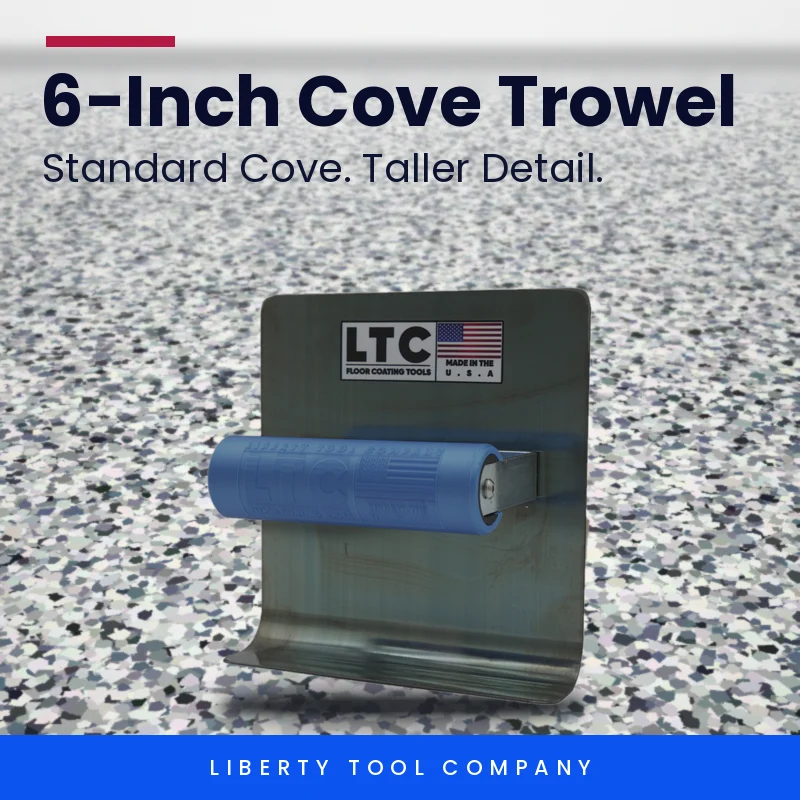
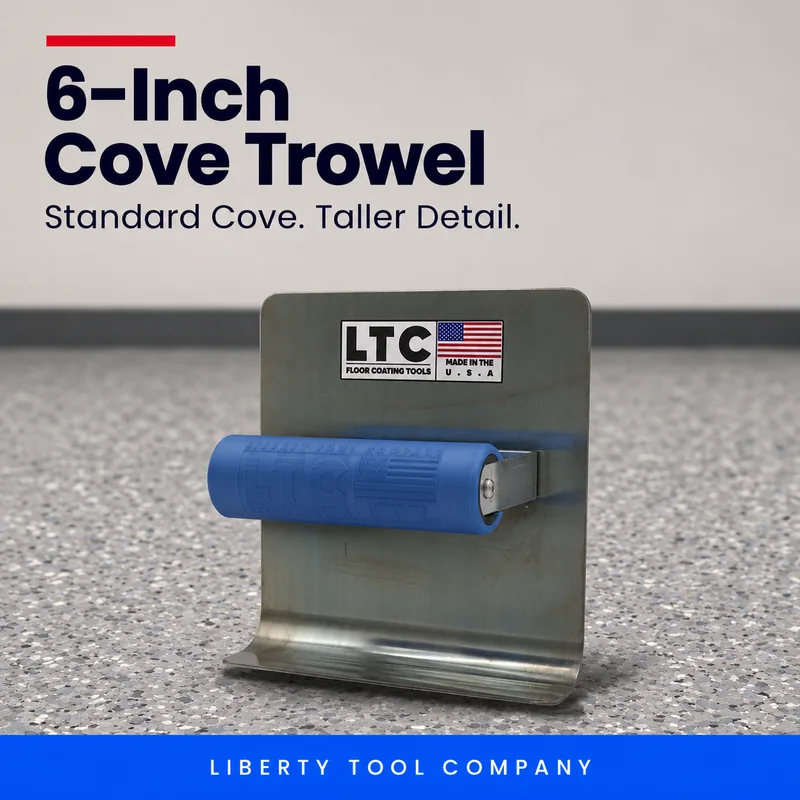
New product cards: trowels, Patch Hawk, Broadcast Strap
- New catalog cards for the 4" and 6" Standard Cove (with and without 45° taper), 2" Cant Cove (both), Patch Hawk and Broadcast Strap
- Same file names, ?v=3 on the website, partner portal and admin so browsers load the new ones
- 6" Snub and 8" Marginal keep their current cards

diff --git a/public/option-2/index.html b/public/option-2/index.html
@@ -1077,15 +1077,15 @@ var CARD = { lowboy: '/assets/card-lowboy.webp', c2: '/assets/card-c2.webp', c4:
 var CROP = { lowboy: '/assets/crop-lowboy.webp', c2: '/assets/crop-c2.webp', c4: '/assets/crop-c4.webp', c6: '/assets/crop-c6.webp', cove: '/assets/crop-cove.webp', ddd: '/assets/crop-ddd.webp', triple: '/assets/crop-triple.webp', four: '/assets/crop-four.webp' };
 var TOOLS = [
   { id: 'trowel', group: 'trowel', name: '6" Snub Flat Hanging Trowel', tag: 'LTC Trowels', sku: 'LTC-SNUB', price: 39.99, img: '/assets/card-snub.webp', alt: '/assets/sq-snub.webp', body: 'A 6 inch snub-nose flat trowel for hanging and finishing work.', points: ['6 inch flat steel blade', 'Snub nose', 'Soft blue grip', 'Made in the USA'], url: '6-snub-flat-hanging-trowel' },
-  { id: 'covetrowel', group: 'trowel', name: '4" Standard Cove Trowel', tag: 'LTC Trowels', sku: 'LTC-45CT', price: 28.99, img: '/assets/card-ct4.webp', alt: '/assets/sq-covet.webp', body: 'A 4 inch standard cove trowel for shaping cove where the floor meets the wall.', points: ['4 inch standard cove', 'Riveted steel handle', 'Blue grip with LTC branding', 'Made in the USA'], url: '4-standard-cove-trowel' },
-  { id: 'ct4t', group: 'trowel', name: '4" Standard Cove Trowel w/ 45° Taper', tag: 'LTC Trowels', sku: 'LTC-45CTW45', price: 31.99, img: '/assets/card-ct4t.webp', alt: '/assets/sq-ct4t.webp', body: 'A 4 inch standard cove trowel with a 45 degree taper.', points: ['4 inch standard cove', '45° taper', 'Made in the USA'], url: '4-standard-cove-trowel-w45' },
-  { id: 'ct6', group: 'trowel', name: '6" Standard Cove Trowel', tag: 'LTC Trowels', sku: 'LTC-65CT', price: 29.99, img: '/assets/card-ct6.webp', alt: '/assets/sq-ct6.webp', body: 'A 6 inch standard cove trowel for taller cove details.', points: ['6 inch standard cove', 'Made in the USA'], url: '6-standard-cove-trowel' },
-  { id: 'ct6t', group: 'trowel', name: '6" Standard Cove Trowel w/ 45° Taper', tag: 'LTC Trowels', sku: 'LTC-65CTW45', price: 32.99, img: '/assets/card-ct6t.webp', alt: '/assets/sq-ct6t.webp', body: 'A 6 inch standard cove trowel with a 45 degree taper.', points: ['6 inch standard cove', '45° taper', 'Made in the USA'], url: '6-standard-cove-trowel-w45' },
-  { id: 'cct', group: 'trowel', name: '2" Cant Cove Trowel', tag: 'LTC Trowels', sku: 'LTC-CCT', price: 34.99, img: '/assets/card-cct.webp?v=2', alt: '/assets/sq-cct.webp', body: 'A 2 inch cant cove trowel for shaping a straight angled cove.', points: ['2 inch cant cove', 'Made in the USA'], url: '2-cant-cove-trowel' },
-  { id: 'cct45', group: 'trowel', name: '2" Cant Cove Trowel w/ 45° Taper', tag: 'LTC Trowels', sku: 'LTC-CCTW45', price: 39.99, img: '/assets/card-cct45.webp?v=2', alt: '/assets/sq-cct45.webp', body: 'A 2 inch cant cove trowel with a 45 degree taper.', points: ['2 inch cant cove', '45° taper', 'Made in the USA'], url: '2-cant-cove-trowel-w45' },
+  { id: 'covetrowel', group: 'trowel', name: '4" Standard Cove Trowel', tag: 'LTC Trowels', sku: 'LTC-45CT', price: 28.99, img: '/assets/card-ct4.webp?v=3', alt: '/assets/sq-covet.webp', body: 'A 4 inch standard cove trowel for shaping cove where the floor meets the wall.', points: ['4 inch standard cove', 'Riveted steel handle', 'Blue grip with LTC branding', 'Made in the USA'], url: '4-standard-cove-trowel' },
+  { id: 'ct4t', group: 'trowel', name: '4" Standard Cove Trowel w/ 45° Taper', tag: 'LTC Trowels', sku: 'LTC-45CTW45', price: 31.99, img: '/assets/card-ct4t.webp?v=3', alt: '/assets/sq-ct4t.webp', body: 'A 4 inch standard cove trowel with a 45 degree taper.', points: ['4 inch standard cove', '45° taper', 'Made in the USA'], url: '4-standard-cove-trowel-w45' },
+  { id: 'ct6', group: 'trowel', name: '6" Standard Cove Trowel', tag: 'LTC Trowels', sku: 'LTC-65CT', price: 29.99, img: '/assets/card-ct6.webp?v=3', alt: '/assets/sq-ct6.webp', body: 'A 6 inch standard cove trowel for taller cove details.', points: ['6 inch standard cove', 'Made in the USA'], url: '6-standard-cove-trowel' },
+  { id: 'ct6t', group: 'trowel', name: '6" Standard Cove Trowel w/ 45° Taper', tag: 'LTC Trowels', sku: 'LTC-65CTW45', price: 32.99, img: '/assets/card-ct6t.webp?v=3', alt: '/assets/sq-ct6t.webp', body: 'A 6 inch standard cove trowel with a 45 degree taper.', points: ['6 inch standard cove', '45° taper', 'Made in the USA'], url: '6-standard-cove-trowel-w45' },
+  { id: 'cct', group: 'trowel', name: '2" Cant Cove Trowel', tag: 'LTC Trowels', sku: 'LTC-CCT', price: 34.99, img: '/assets/card-cct.webp?v=3', alt: '/assets/sq-cct.webp', body: 'A 2 inch cant cove trowel for shaping a straight angled cove.', points: ['2 inch cant cove', 'Made in the USA'], url: '2-cant-cove-trowel' },
+  { id: 'cct45', group: 'trowel', name: '2" Cant Cove Trowel w/ 45° Taper', tag: 'LTC Trowels', sku: 'LTC-CCTW45', price: 39.99, img: '/assets/card-cct45.webp?v=3', alt: '/assets/sq-cct45.webp', body: 'A 2 inch cant cove trowel with a 45 degree taper.', points: ['2 inch cant cove', '45° taper', 'Made in the USA'], url: '2-cant-cove-trowel-w45' },
   { id: 'marg', group: 'trowel', name: '8" Marginal Trowel', tag: 'LTC Trowels', sku: '', price: 23.99, img: '/assets/card-marg.webp', body: 'An 8 inch marginal trowel for tight spots, edges and detail work.', points: ['8 inch blade', 'For edges and detail work', 'Made in the USA'], url: '8-marginal-trowel' },
-  { id: 'hawk', group: 'trowel', name: 'Patch Hawk', tag: 'LTC Trowels', sku: 'LTC-PH', price: 39.99, img: '/assets/card-hawk.webp', body: 'A hawk for holding patch and cove material while you work.', points: ['Holds patch and cove material', 'Made in the USA'], url: 'patch-hawk' },
-  { id: 'strap', group: 'trowel', name: 'Broadcast Strap', tag: 'LTC Broadcast Gear', sku: 'LTC-BCSTRAP', price: 64.99, img: '/assets/card-strap.webp', alt: '/assets/sq-strap2.webp', body: 'A broadcast strap for even, hands-steady broadcasting of flake and aggregate.', points: ['For flake and aggregate broadcast', 'Hands-free carry on big floors', 'Made in the USA'], url: 'broadcast-strap' },
+  { id: 'hawk', group: 'trowel', name: 'Patch Hawk', tag: 'LTC Trowels', sku: 'LTC-PH', price: 39.99, img: '/assets/card-hawk.webp?v=3', body: 'A hawk for holding patch and cove material while you work.', points: ['Holds patch and cove material', 'Made in the USA'], url: 'patch-hawk' },
+  { id: 'strap', group: 'trowel', name: 'Broadcast Strap', tag: 'LTC Broadcast Gear', sku: 'LTC-BCSTRAP', price: 64.99, img: '/assets/card-strap.webp?v=3', alt: '/assets/sq-strap2.webp', body: 'A broadcast strap for even, hands-steady broadcasting of flake and aggregate.', points: ['For flake and aggregate broadcast', 'Hands-free carry on big floors', 'Made in the USA'], url: 'broadcast-strap' },
   { id: 'lowboy', group: 'caddy', name: 'The Lowboy', tag: 'Tape Caddy · 4 mm', price: 89, body: 'Our lowest caddy. Mask floor edges and thin lines without crawling across the floor.', points: ['Holds tape at 4 mm', 'Rolls on casters', 'Made in the USA'], url: 'hardware-and-tools-example-product-1' },
   { id: 'c2', group: 'caddy', name: '2-Inch Caddy', tag: 'Tape Caddy · 2-Inch', price: 89, body: 'Holds your tape at 2 inches, the same on every pass.', points: ['Holds tape at 2 inches', 'Rolls on casters', 'Made in the USA'], url: 'hardware-and-tools-example-product-2' },
   { id: 'c4', group: 'caddy', name: '4-Inch Caddy', tag: 'Tape Caddy · 4-Inch', price: 99, body: 'The everyday 4-inch line for cove and wall masking.', points: ['Holds tape at 4 inches', 'Rolls on casters', 'Made in the USA'], url: 'hardware-and-tools-example-product-3' },

diff --git a/public/admin/option-2/index.html b/public/admin/option-2/index.html
@@ -2107,16 +2107,16 @@ var PRODUCTS = [
   { id: 'four', name: '4-Score Complete Kit', tag: 'Kit · all four', msrp: 389 }
 ];
 var TRW = [
-  { id: 'hawk', name: 'Patch Hawk', sku: 'LTC-PH', gtin: '00850089875125', msrp: 39.99, dist: 25.99, img: '/assets/card-hawk.webp', spec: 'Patch hawk', body: 'A hawk for holding patch and cove material while you work.', pts: ['Holds patch and cove material', 'Made in the USA'] },
+  { id: 'hawk', name: 'Patch Hawk', sku: 'LTC-PH', gtin: '00850089875125', msrp: 39.99, dist: 25.99, img: '/assets/card-hawk.webp?v=3', spec: 'Patch hawk', body: 'A hawk for holding patch and cove material while you work.', pts: ['Holds patch and cove material', 'Made in the USA'] },
   { id: 'snub', name: '6" Snub Flat Hanging Trowel', sku: 'LTC-SNUB', gtin: '00850089875118', msrp: 39.99, dist: 24.50, img: '/assets/card-snub.webp', spec: '6 inch snub-nose flat trowel', body: 'A 6 inch snub-nose flat trowel for hanging and finishing work.', pts: ['6 inch flat blade', 'Snub nose', 'Made in the USA'] },
   { id: 'marg', name: '8" Marginal Trowel', sku: '', gtin: '', msrp: 23.99, dist: 14.00, img: '/assets/card-marg.webp', spec: '8 inch marginal trowel', body: 'An 8 inch marginal trowel for tight spots, edges and detail work.', pts: ['8 inch blade', 'Made in the USA'] },
-  { id: 'cct', name: '2" Cant Cove Trowel', sku: 'LTC-CCT', gtin: '00850089875088', msrp: 34.99, dist: 20.50, img: '/assets/card-cct.webp?v=2', spec: '2 inch cant cove', body: 'A 2 inch cant cove trowel for shaping a straight angled cove.', pts: ['2 inch cant cove', 'Made in the USA'] },
-  { id: 'cct45', name: '2" Cant Cove Trowel w/ 45° Taper', sku: 'LTC-CCTW45', gtin: '00850089875055', msrp: 39.99, dist: 23.50, img: '/assets/card-cct45.webp?v=2', spec: '2 inch cant cove, 45° taper', body: 'A 2 inch cant cove trowel with a 45 degree taper.', pts: ['2 inch cant cove', '45° taper', 'Made in the USA'] },
-  { id: 'ct4', name: '4" Standard Cove Trowel', sku: 'LTC-45CT', gtin: '00850089875064', msrp: 28.99, dist: 18.00, img: '/assets/card-ct4.webp', spec: '4 inch standard cove', body: 'A 4 inch standard cove trowel for shaping cove where the floor meets the wall.', pts: ['4 inch standard cove', 'Made in the USA'] },
-  { id: 'ct4t', name: '4" Standard Cove Trowel w/ 45° Taper', sku: 'LTC-45CTW45', gtin: '00850089875071', msrp: 31.99, dist: 19.50, img: '/assets/card-ct4t.webp', spec: '4 inch standard cove, 45° taper', body: 'A 4 inch standard cove trowel with a 45 degree taper.', pts: ['4 inch standard cove', '45° taper', 'Made in the USA'] },
-  { id: 'ct6', name: '6" Standard Cove Trowel', sku: 'LTC-65CT', gtin: '00850089875057', msrp: 29.99, dist: 18.00, img: '/assets/card-ct6.webp', spec: '6 inch standard cove', body: 'A 6 inch standard cove trowel for taller cove details.', pts: ['6 inch standard cove', 'Made in the USA'] },
-  { id: 'ct6t', name: '6" Standard Cove Trowel w/ 45° Taper', sku: 'LTC-65CTW45', gtin: '00850089875095', msrp: 32.99, dist: 19.50, img: '/assets/card-ct6t.webp', spec: '6 inch standard cove, 45° taper', body: 'A 6 inch standard cove trowel with a 45 degree taper.', pts: ['6 inch standard cove', '45° taper', 'Made in the USA'] },
-  { id: 'strap', name: 'Broadcast Strap', sku: 'LTC-BCSTRAP', gtin: '00850089875132', msrp: 64.99, dist: 44.99, img: '/assets/card-strap.webp', spec: 'Broadcast strap', body: 'A broadcast strap for even, hands-steady broadcasting of flake and aggregate.', pts: ['For flake and aggregate broadcast', 'Made in the USA'] }
+  { id: 'cct', name: '2" Cant Cove Trowel', sku: 'LTC-CCT', gtin: '00850089875088', msrp: 34.99, dist: 20.50, img: '/assets/card-cct.webp?v=3', spec: '2 inch cant cove', body: 'A 2 inch cant cove trowel for shaping a straight angled cove.', pts: ['2 inch cant cove', 'Made in the USA'] },
+  { id: 'cct45', name: '2" Cant Cove Trowel w/ 45° Taper', sku: 'LTC-CCTW45', gtin: '00850089875055', msrp: 39.99, dist: 23.50, img: '/assets/card-cct45.webp?v=3', spec: '2 inch cant cove, 45° taper', body: 'A 2 inch cant cove trowel with a 45 degree taper.', pts: ['2 inch cant cove', '45° taper', 'Made in the USA'] },
+  { id: 'ct4', name: '4" Standard Cove Trowel', sku: 'LTC-45CT', gtin: '00850089875064', msrp: 28.99, dist: 18.00, img: '/assets/card-ct4.webp?v=3', spec: '4 inch standard cove', body: 'A 4 inch standard cove trowel for shaping cove where the floor meets the wall.', pts: ['4 inch standard cove', 'Made in the USA'] },
+  { id: 'ct4t', name: '4" Standard Cove Trowel w/ 45° Taper', sku: 'LTC-45CTW45', gtin: '00850089875071', msrp: 31.99, dist: 19.50, img: '/assets/card-ct4t.webp?v=3', spec: '4 inch standard cove, 45° taper', body: 'A 4 inch standard cove trowel with a 45 degree taper.', pts: ['4 inch standard cove', '45° taper', 'Made in the USA'] },
+  { id: 'ct6', name: '6" Standard Cove Trowel', sku: 'LTC-65CT', gtin: '00850089875057', msrp: 29.99, dist: 18.00, img: '/assets/card-ct6.webp?v=3', spec: '6 inch standard cove', body: 'A 6 inch standard cove trowel for taller cove details.', pts: ['6 inch standard cove', 'Made in the USA'] },
+  { id: 'ct6t', name: '6" Standard Cove Trowel w/ 45° Taper', sku: 'LTC-65CTW45', gtin: '00850089875095', msrp: 32.99, dist: 19.50, img: '/assets/card-ct6t.webp?v=3', spec: '6 inch standard cove, 45° taper', body: 'A 6 inch standard cove trowel with a 45 degree taper.', pts: ['6 inch standard cove', '45° taper', 'Made in the USA'] },
+  { id: 'strap', name: 'Broadcast Strap', sku: 'LTC-BCSTRAP', gtin: '00850089875132', msrp: 64.99, dist: 44.99, img: '/assets/card-strap.webp?v=3', spec: 'Broadcast strap', body: 'A broadcast strap for even, hands-steady broadcasting of flake and aggregate.', pts: ['For flake and aggregate broadcast', 'Made in the USA'] }
 ];
 var CADDY_SKU = { lowboy: ['LTC-LBO', '850089875002'], c2: ['LTC-2TC', '850089875019'], c4: ['LTC-4TC', '850089875026'], c6: ['LTC-6TC', '850089875033'] };
 var TOOLS = TRW.map(function (t) { return { id: t.id, name: t.name, msrp: t.msrp, sku: t.sku }; });

diff --git a/public/partner-portal/option-2/index.html b/public/partner-portal/option-2/index.html
@@ -2107,16 +2107,16 @@ var PRODUCTS = [
   { id: 'four', name: '4-Score Complete Kit', tag: 'Kit · all four', msrp: 389 }
 ];
 var TRW = [
-  { id: 'hawk', name: 'Patch Hawk', sku: 'LTC-PH', gtin: '00850089875125', msrp: 39.99, dist: 25.99, img: '/assets/card-hawk.webp', spec: 'Patch hawk', body: 'A hawk for holding patch and cove material while you work.', pts: ['Holds patch and cove material', 'Made in the USA'] },
+  { id: 'hawk', name: 'Patch Hawk', sku: 'LTC-PH', gtin: '00850089875125', msrp: 39.99, dist: 25.99, img: '/assets/card-hawk.webp?v=3', spec: 'Patch hawk', body: 'A hawk for holding patch and cove material while you work.', pts: ['Holds patch and cove material', 'Made in the USA'] },
   { id: 'snub', name: '6" Snub Flat Hanging Trowel', sku: 'LTC-SNUB', gtin: '00850089875118', msrp: 39.99, dist: 24.50, img: '/assets/card-snub.webp', spec: '6 inch snub-nose flat trowel', body: 'A 6 inch snub-nose flat trowel for hanging and finishing work.', pts: ['6 inch flat blade', 'Snub nose', 'Made in the USA'] },
   { id: 'marg', name: '8" Marginal Trowel', sku: '', gtin: '', msrp: 23.99, dist: 14.00, img: '/assets/card-marg.webp', spec: '8 inch marginal trowel', body: 'An 8 inch marginal trowel for tight spots, edges and detail work.', pts: ['8 inch blade', 'Made in the USA'] },
-  { id: 'cct', name: '2" Cant Cove Trowel', sku: 'LTC-CCT', gtin: '00850089875088', msrp: 34.99, dist: 20.50, img: '/assets/card-cct.webp?v=2', spec: '2 inch cant cove', body: 'A 2 inch cant cove trowel for shaping a straight angled cove.', pts: ['2 inch cant cove', 'Made in the USA'] },
-  { id: 'cct45', name: '2" Cant Cove Trowel w/ 45° Taper', sku: 'LTC-CCTW45', gtin: '00850089875055', msrp: 39.99, dist: 23.50, img: '/assets/card-cct45.webp?v=2', spec: '2 inch cant cove, 45° taper', body: 'A 2 inch cant cove trowel with a 45 degree taper.', pts: ['2 inch cant cove', '45° taper', 'Made in the USA'] },
-  { id: 'ct4', name: '4" Standard Cove Trowel', sku: 'LTC-45CT', gtin: '00850089875064', msrp: 28.99, dist: 18.00, img: '/assets/card-ct4.webp', spec: '4 inch standard cove', body: 'A 4 inch standard cove trowel for shaping cove where the floor meets the wall.', pts: ['4 inch standard cove', 'Made in the USA'] },
-  { id: 'ct4t', name: '4" Standard Cove Trowel w/ 45° Taper', sku: 'LTC-45CTW45', gtin: '00850089875071', msrp: 31.99, dist: 19.50, img: '/assets/card-ct4t.webp', spec: '4 inch standard cove, 45° taper', body: 'A 4 inch standard cove trowel with a 45 degree taper.', pts: ['4 inch standard cove', '45° taper', 'Made in the USA'] },
-  { id: 'ct6', name: '6" Standard Cove Trowel', sku: 'LTC-65CT', gtin: '00850089875057', msrp: 29.99, dist: 18.00, img: '/assets/card-ct6.webp', spec: '6 inch standard cove', body: 'A 6 inch standard cove trowel for taller cove details.', pts: ['6 inch standard cove', 'Made in the USA'] },
-  { id: 'ct6t', name: '6" Standard Cove Trowel w/ 45° Taper', sku: 'LTC-65CTW45', gtin: '00850089875095', msrp: 32.99, dist: 19.50, img: '/assets/card-ct6t.webp', spec: '6 inch standard cove, 45° taper', body: 'A 6 inch standard cove trowel with a 45 degree taper.', pts: ['6 inch standard cove', '45° taper', 'Made in the USA'] },
-  { id: 'strap', name: 'Broadcast Strap', sku: 'LTC-BCSTRAP', gtin: '00850089875132', msrp: 64.99, dist: 44.99, img: '/assets/card-strap.webp', spec: 'Broadcast strap', body: 'A broadcast strap for even, hands-steady broadcasting of flake and aggregate.', pts: ['For flake and aggregate broadcast', 'Made in the USA'] }
+  { id: 'cct', name: '2" Cant Cove Trowel', sku: 'LTC-CCT', gtin: '00850089875088', msrp: 34.99, dist: 20.50, img: '/assets/card-cct.webp?v=3', spec: '2 inch cant cove', body: 'A 2 inch cant cove trowel for shaping a straight angled cove.', pts: ['2 inch cant cove', 'Made in the USA'] },
+  { id: 'cct45', name: '2" Cant Cove Trowel w/ 45° Taper', sku: 'LTC-CCTW45', gtin: '00850089875055', msrp: 39.99, dist: 23.50, img: '/assets/card-cct45.webp?v=3', spec: '2 inch cant cove, 45° taper', body: 'A 2 inch cant cove trowel with a 45 degree taper.', pts: ['2 inch cant cove', '45° taper', 'Made in the USA'] },
+  { id: 'ct4', name: '4" Standard Cove Trowel', sku: 'LTC-45CT', gtin: '00850089875064', msrp: 28.99, dist: 18.00, img: '/assets/card-ct4.webp?v=3', spec: '4 inch standard cove', body: 'A 4 inch standard cove trowel for shaping cove where the floor meets the wall.', pts: ['4 inch standard cove', 'Made in the USA'] },
+  { id: 'ct4t', name: '4" Standard Cove Trowel w/ 45° Taper', sku: 'LTC-45CTW45', gtin: '00850089875071', msrp: 31.99, dist: 19.50, img: '/assets/card-ct4t.webp?v=3', spec: '4 inch standard cove, 45° taper', body: 'A 4 inch standard cove trowel with a 45 degree taper.', pts: ['4 inch standard cove', '45° taper', 'Made in the USA'] },
+  { id: 'ct6', name: '6" Standard Cove Trowel', sku: 'LTC-65CT', gtin: '00850089875057', msrp: 29.99, dist: 18.00, img: '/assets/card-ct6.webp?v=3', spec: '6 inch standard cove', body: 'A 6 inch standard cove trowel for taller cove details.', pts: ['6 inch standard cove', 'Made in the USA'] },
+  { id: 'ct6t', name: '6" Standard Cove Trowel w/ 45° Taper', sku: 'LTC-65CTW45', gtin: '00850089875095', msrp: 32.99, dist: 19.50, img: '/assets/card-ct6t.webp?v=3', spec: '6 inch standard cove, 45° taper', body: 'A 6 inch standard cove trowel with a 45 degree taper.', pts: ['6 inch standard cove', '45° taper', 'Made in the USA'] },
+  { id: 'strap', name: 'Broadcast Strap', sku: 'LTC-BCSTRAP', gtin: '00850089875132', msrp: 64.99, dist: 44.99, img: '/assets/card-strap.webp?v=3', spec: 'Broadcast strap', body: 'A broadcast strap for even, hands-steady broadcasting of flake and aggregate.', pts: ['For flake and aggregate broadcast', 'Made in the USA'] }
 ];
 var CADDY_SKU = { lowboy: ['LTC-LBO', '850089875002'], c2: ['LTC-2TC', '850089875019'], c4: ['LTC-4TC', '850089875026'], c6: ['LTC-6TC', '850089875033'] };
 var TOOLS = TRW.map(function (t) { return { id: t.id, name: t.name, msrp: t.msrp, sku: t.sku }; });
